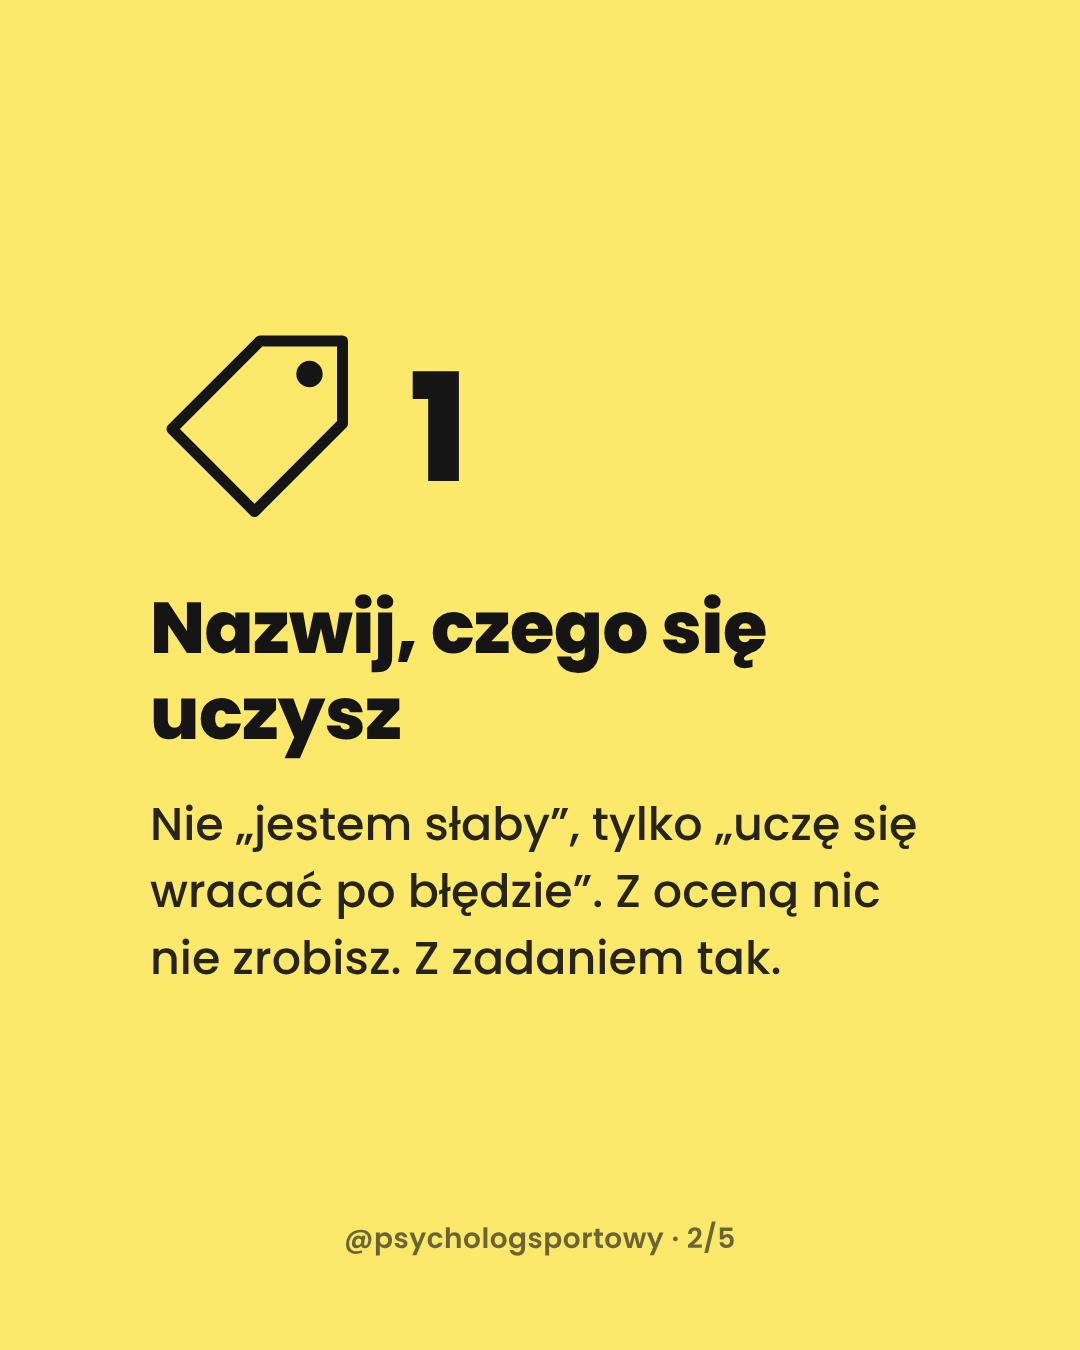
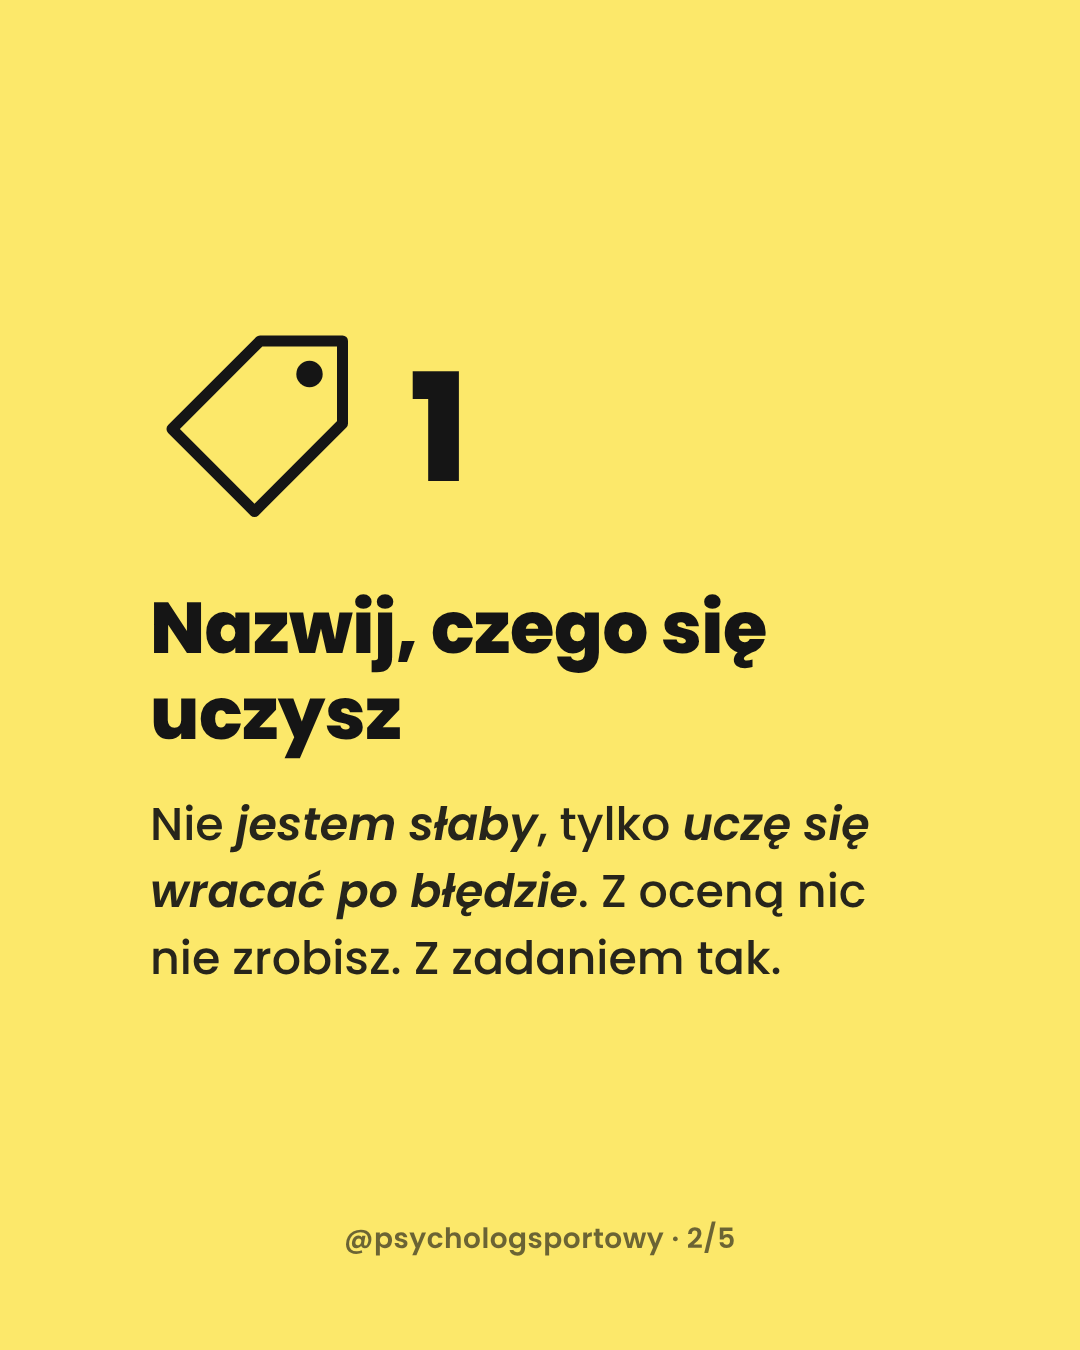
Bez cudzysłowów: cytaty pochyloną, lekko pogrubioną czcionką na grafikach
Claude-Session: https://claude.ai/code/session_01A5PTvWpyS7iEo6fG2kmJPS

Changed region(s): [[0.1528, 0.5911, 0.8556, 0.6844]]

diff --git a/tools/psy.js b/tools/psy.js
@@ -9,11 +9,15 @@ const font = `
 @font-face{font-family:P;font-weight:600;src:url(${F('poppins/files/poppins-latin-ext-600-normal.woff2')});unicode-range:U+0100-024F,U+1E00-1EFF}
 @font-face{font-family:P;font-weight:600;src:url(${F('poppins/files/poppins-latin-600-normal.woff2')})}
 @font-face{font-family:P;font-weight:500;src:url(${F('poppins/files/poppins-latin-ext-500-normal.woff2')});unicode-range:U+0100-024F,U+1E00-1EFF}
-@font-face{font-family:P;font-weight:500;src:url(${F('poppins/files/poppins-latin-500-normal.woff2')})}`;
+@font-face{font-family:P;font-weight:500;src:url(${F('poppins/files/poppins-latin-500-normal.woff2')})}
+@font-face{font-family:P;font-weight:600;font-style:italic;src:url(${F('poppins/files/poppins-latin-ext-600-italic.woff2')});unicode-range:U+0100-024F,U+1E00-1EFF}
+@font-face{font-family:P;font-weight:600;font-style:italic;src:url(${F('poppins/files/poppins-latin-600-italic.woff2')})}`;
 const Y = '#FCE86A';
-const esc = s => String(s).replace(/&/g, '&amp;').replace(/</g, '&lt;');
-const hl = (s, cls = 'y') => esc(s).split('\\n').join('\n').split('\n').map(l => l.replace(/\*(.+?)\*/g, `<span class="${cls}">$1</span>`)).join('<br>');
-const plain = s => String(s).replace(/\*/g, '');
+const qq = s => String(s).replace(/[„“"]([^„”“"]+)[”"]/g, '_$1_').replace(/[„”“"]/g, '');
+const em = s => s.replace(/_([^_]+)_/g, '<em class="q">$1</em>');
+const esc = s => em(qq(s).replace(/&/g, '&amp;').replace(/</g, '&lt;'));
+const hl = (s, cls = 'y') => esc(s).split('\\n').join('\n').split('\n').map(l => em(l.replace(/\*(.+?)\*/g, `<span class="${cls}">$1</span>`))).join('<br>');
+const plain = s => qq(s).replace(/[*_]/g, '');
 const size = s => { const n = plain(s).length; return n < 16 ? 104 : n < 26 ? 92 : n < 40 ? 82 : 74; };
 
 // person silhouette for reel placeholders (the real cover = frame from his daily video)
@@ -73,8 +77,8 @@ Object.assign(ICONS, {
 const L = {
   quote: (s, T, cls) => `<div class="c" style="align-items:flex-start;text-align:left">
     <div style="font:600 30px P;letter-spacing:3px;color:${T.ft};margin-bottom:36px">CZĘSTO SŁYSZĘ W GABINECIE</div>
-    <div style="font:800 260px/1 Georgia,serif;color:${T.mark ? T.fg : Y};height:130px;overflow:hidden;margin:0 0 30px -8px">“</div>
-    <div class="h" style="font-size:${size(s.text) - 6}px;color:${T.fg}">${hl(s.text, cls)}</div></div>`,
+    <div style="width:120px;height:10px;background:${T.mark ? T.fg : Y};margin:0 0 44px"></div>
+    <div class="h" style="font-size:${size(s.text) - 6}px;color:${T.fg};font-style:italic;font-weight:600">${hl(s.text, cls)}</div></div>`,
   number: (s, T, cls) => `<div class="c" style="align-items:flex-start;text-align:left">
     <div style="font:800 300px/0.9 P;color:${T.mark ? T.fg : Y};letter-spacing:-8px">${s.n || (s.items || []).length}</div>
     <div class="h" style="font-size:${size(s.text) - 14}px;color:${T.fg};margin:10px 0 40px">${hl(s.text, cls)}</div>
@@ -134,7 +138,7 @@ function doc(body) {
   html,body{margin:0;width:1080px;height:1350px;overflow:hidden;position:relative}
   .c{position:absolute;top:150px;bottom:190px;left:150px;right:150px;display:flex;flex-direction:column;justify-content:center;align-items:center;text-align:center}
   .h{font-family:P;font-weight:800;line-height:1.2;letter-spacing:-.5px}
-  .y{color:${Y}} .k{color:${Y};background:#111;padding:0 .14em;-webkit-box-decoration-break:clone;box-decoration-break:clone}
+  em.q{font-style:italic;font-weight:600} .y{color:${Y}} .k{color:${Y};background:#111;padding:0 .14em;-webkit-box-decoration-break:clone;box-decoration-break:clone}
   .mk{background:linear-gradient(180deg,transparent 55%,${Y} 55%,${Y} 92%,transparent 92%);padding:0 .06em} .u{text-decoration:underline;text-decoration-thickness:.09em;text-underline-offset:.14em}
   .cap{color:#fff;text-shadow:0 4px 18px rgba(0,0,0,.55)} .yb{color:${Y}}
   </style></head>${body}</html>`;

diff --git a/tools/family.js b/tools/family.js
@@ -11,9 +11,11 @@ const F = p => 'file://' + path.join(__dirname, 'node_modules/@fontsource', p);
 const css = `@font-face{font-family:AD;src:url(${F('architects-daughter/files/architects-daughter-latin-ext-400-normal.woff2')});unicode-range:U+0100-024F,U+1E00-1EFF}
 @font-face{font-family:AD;src:url(${F('architects-daughter/files/architects-daughter-latin-400-normal.woff2')})}
 html,body{margin:0;width:1080px;height:1350px;overflow:hidden;background:${BG};color:${INK};font-family:AD,sans-serif}
-.a{color:${ACC}} .c{position:absolute;left:70px;right:70px;text-align:center}`;
-const hl = s => String(s).replace(/&/g, '&amp;').replace(/</g, '&lt;').split('\n').map(l => l.replace(/\*(.+?)\*/g, '<span class="a">$1</span>')).join('<br>');
-const len = s => String(s).replace(/\*/g, '').length;
+.a{color:${ACC}} em.q{font-style:italic;font-weight:600} .c{position:absolute;left:70px;right:70px;text-align:center}`;
+const qq = s => String(s).replace(/[„“"]([^„”“"]+)[”"]/g, '_$1_').replace(/[„”“"]/g, '');
+const em = s => s.replace(/_([^_]+)_/g, '<em class="q">$1</em>');
+const hl = s => qq(s).replace(/&/g, '&amp;').replace(/</g, '&lt;').split('\n').map(l => em(l.replace(/\*(.+?)\*/g, '<span class="a">$1</span>'))).join('<br>');
+const len = s => qq(s).replace(/[*_]/g, '').length;
 const total = spec.slides.length;
 const foot = i => `<div class="c" style="bottom:46px;font-size:26px;opacity:.7">@sportowarodzina${total > 1 ? ' · ' + (i + 1) + '/' + total : ''}</div>`;
 const R = (d, w = 7, c) => `<path d="${d}" fill="none" stroke="${c || INK}" stroke-width="${w}" stroke-linecap="round" stroke-linejoin="round"/>`;
@@ -53,7 +55,7 @@ function slide(s, i) {
       ${s.text ? `<div style="font-size:52px;line-height:1.3;opacity:.85">${hl(s.text)}</div>` : ''}</div>${swipe}${foot(i)}`;
   }
   if (s.kind === 'cover' && s.layout === 'marker') {
-    const mk = String(s.text).replace(/&/g, '&amp;').split('\n').map(l => l.replace(/\*(.+?)\*/g, `<span style="background:linear-gradient(transparent 55%, ${spec.bg === 'khaki' ? '#F4F1E6' : '#FCE86A'} 55%, ${spec.bg === 'khaki' ? '#F4F1E6' : '#FCE86A'} 92%, transparent 92%);padding:0 6px">$1</span>`)).join('<br>');
+    const mk = qq(s.text).replace(/&/g, '&amp;').split('\n').map(l => l.replace(/\*(.+?)\*/g, `<span style="background:linear-gradient(transparent 55%, ${spec.bg === 'khaki' ? '#F4F1E6' : '#FCE86A'} 55%, ${spec.bg === 'khaki' ? '#F4F1E6' : '#FCE86A'} 92%, transparent 92%);padding:0 6px">$1</span>`)).join('<br>');
     return `<div style="position:absolute;left:100px;right:100px;top:0;bottom:0;display:flex;align-items:center"><div style="font-size:${len(s.text) < 50 ? 96 : 82}px;line-height:1.35">${mk}</div></div>${swipe}${foot(i)}`;
   }
   if (s.kind === 'cover') {

diff --git a/tools/carousel.js b/tools/carousel.js
@@ -13,9 +13,11 @@ const B = {
   rodzina: { l1: 'SPORTOWA', l2: 'RODZINA', handle: 'sportowarodzina' },
   sedzia: { l1: 'SĘDZIA', l2: 'Z GŁOWĄ', handle: 'sedziazglowa' },
 }[spec.brand];
-const hl = s => String(s).replace(/\\n/g, '\n').replace(/&/g, '&amp;').replace(/</g, '&lt;')
-  .split('\n').map(l => l.replace(/\*(.+?)\*/g, '<span class="y">$1</span>')).join('<br>');
-const len = s => String(s).replace(/\*/g, '').length;
+const qq = s => String(s).replace(/[„“"]([^„”“"]+)[”"]/g, '_$1_').replace(/[„”“"]/g, '');
+const em = s => s.replace(/_([^_]+)_/g, '<em class="q">$1</em>');
+const hl = s => qq(s).replace(/\\n/g, '\n').replace(/&/g, '&amp;').replace(/</g, '&lt;')
+  .split('\n').map(l => em(l.replace(/\*(.+?)\*/g, '<span class="y">$1</span>'))).join('<br>');
+const len = s => qq(s).replace(/[*_]/g, '').length;
 const shield = `file://${__dirname}/sst_shield.png`;
 const total = spec.slides.length;
 const THEMES = {
@@ -48,8 +50,8 @@ function slideHtml(s, i) {
   if (s.kind === 'cover' && s.style === 'quote') {
     const fsz = len(s.text) < 50 ? 84 : len(s.text) < 90 ? 70 : 60;
     return `<div style="position:absolute;left:100px;right:100px;top:0;bottom:0;display:flex;flex-direction:column;justify-content:center">
-      <div class="acc" style="font-family:Georgia,serif;font-weight:700;font-size:240px;line-height:1;height:150px;margin-bottom:10px;overflow:visible"><span style="position:relative;top:-70px">„</span></div>
-      <div style="font-weight:800;font-size:${fsz}px;line-height:1.2;text-wrap:balance">${hl(s.text)}</div>
+      <div style="width:110px;height:8px;margin-bottom:48px" class="acc-bg"></div>
+      <div style="font-weight:600;font-style:italic;font-size:${fsz}px;line-height:1.2;text-wrap:balance">${hl(s.text)}</div>
       <div style="width:110px;height:6px;margin-top:44px" class="acc-bg"></div></div>
       ${total > 1 ? `<div style="position:absolute;right:80px;bottom:170px;font-family:Pop;font-weight:500;font-size:30px" class="acc">przesuń →</div>` : ""}${footer(i)}`;
   }

diff --git a/tools/kit.js b/tools/kit.js
@@ -12,6 +12,8 @@ const fontCss = `
 @font-face{font-family:Pop;font-weight:800;src:url(${F('poppins/files/poppins-latin-800-normal.woff2')}) format('woff2')}
 @font-face{font-family:Pop;font-weight:500;src:url(${F('poppins/files/poppins-latin-ext-500-normal.woff2')}) format('woff2');unicode-range:U+0100-024F,U+1E00-1EFF}
 @font-face{font-family:Pop;font-weight:500;src:url(${F('poppins/files/poppins-latin-500-normal.woff2')}) format('woff2')}
+@font-face{font-family:Pop;font-weight:600;font-style:italic;src:url(${F('poppins/files/poppins-latin-ext-600-italic.woff2')}) format('woff2');unicode-range:U+0100-024F,U+1E00-1EFF}
+@font-face{font-family:Pop;font-weight:600;font-style:italic;src:url(${F('poppins/files/poppins-latin-600-italic.woff2')}) format('woff2')}
 `;
 
 // Shield badge in the SST style: flat top with chamfers, straight sides, pointed bottom, double outline.
@@ -45,6 +47,7 @@ function page(body, { w, h, bg = 'grad' } = {}) {
   html,body{margin:0;width:${w}px;height:${h}px;overflow:hidden}
   body{background:${background};color:#fff;font-family:Pop,Poppins,sans-serif}
   .wm{font-family:Raj,sans-serif;font-weight:700;text-transform:uppercase;letter-spacing:.04em;line-height:.92;text-align:center}
+  em.q{font-style:italic;font-weight:600}
   .y{color:${COLORS.yellow}}
   </style></head><body>${body}</body></html>`;
 }
